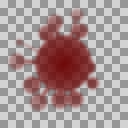
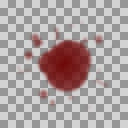
effects: irregular blood splatter; qa_spawn_effects hook for in-engine effect inspection

Changed region(s): [[0.0625, 0.0625, 0.7188, 0.875], [0.6562, 0.4688, 0.8438, 0.7188], [0.7188, 0.25, 0.8125, 0.3438]]

diff --git a/tools/artgen/effects.py b/tools/artgen/effects.py
@@ -110,18 +110,26 @@ def blood_image(seed=20261018):
     c = CENTER * scale
     # Central blob plus scattered satellite droplets, symmetric in expectation
     # (random angles cover the full circle -> no preferred roll direction).
-    main_r = SIZE * scale * 0.22
-    draw.ellipse((c - main_r, c - main_r, c + main_r, c + main_r), fill=255)
-    for i in range(14):
-        ang = (2 * math.pi * i) / 14 + rng.uniform(-0.2, 0.2)
-        dist = rng.uniform(main_r * 0.6, SIZE * scale * 0.42)
-        rad = rng.uniform(SIZE * scale * 0.02, SIZE * scale * 0.07)
+    # Irregular core: overlapping lumps of different sizes, not one circle.
+    main_r = SIZE * scale * 0.16
+    for _ in range(7):
+        ang = rng.uniform(0, 2 * math.pi)
+        off = rng.uniform(0, main_r * 0.7)
+        rr = main_r * rng.uniform(0.55, 1.05)
+        x0, y0 = c + off * math.cos(ang), c + off * math.sin(ang)
+        draw.ellipse((x0 - rr, y0 - rr * rng.uniform(0.7, 1.0), x0 + rr, y0 + rr), fill=255)
+    # Uneven spray: random angles (clumped, not evenly spaced), mostly tiny
+    # droplets, a few elongated streaks. Avoids a symmetric "germ" look.
+    for i in range(26):
+        ang = rng.uniform(0, 2 * math.pi)
+        dist = main_r * rng.uniform(0.9, 2.5)
+        rad = SIZE * scale * rng.choice((0.008, 0.012, 0.018, 0.03))
         cx = c + dist * math.cos(ang)
         cy = c + dist * math.sin(ang)
+        if rng.random() < 0.3:
+            ex, ey = c + dist * 0.75 * math.cos(ang), c + dist * 0.75 * math.sin(ang)
+            draw.line((ex, ey, cx, cy), fill=255, width=max(1, int(rad * 1.2)))
         draw.ellipse((cx - rad, cy - rad, cx + rad, cy + rad), fill=255)
-        # thin connecting streak toward the centre (splatter trail)
-        mx, my = c + (dist * 0.3) * math.cos(ang), c + (dist * 0.3) * math.sin(ang)
-        draw.line((mx, my, cx, cy), fill=255, width=max(1, int(rad * 0.5)))
     big = big.filter(ImageFilter.GaussianBlur(radius=scale * 1.5))
     mask = big.resize((SIZE, SIZE), Image.Resampling.LANCZOS)
     # Force alpha to 0 at the border regardless of blur bleed.

diff --git a/tests/browser/qa_hooks.cpp b/tests/browser/qa_hooks.cpp
@@ -7,6 +7,16 @@ extern ObjectManager ObjMgr;
 extern ResourceManager Resource;
 // Draw one actual engine-composed human, with live pose and game transforms.
 // A local visual-inspection helper only; normal builds never compile this file.
+// Spawn the engine's own blood + impact-smoke effects a few units in front of
+// the player so effect textures can be inspected without a firefight.
+extern "C" EMSCRIPTEN_KEEPALIVE int qa_spawn_effects(float x, float y, float z) {
+    // Same textures/alpha as SetHumanBlood (objectmanager.cpp:638), the map-hit
+    // impact puff (:1032) and the muzzle flash (:2118); long-lived and larger.
+    ObjMgr.AddEffect(x,y,z,0,0,0,0,0,0,4.0f,0,Resource.GetEffectBloodTexture(),10,0,1.0f,0,EFFECT_NORMAL,600);
+    ObjMgr.AddEffect(x,y-5,z,0,0,0,0,0,0,4.0f,0,Resource.GetEffectSmokeTexture(),10,0,0.625f,0,EFFECT_NORMAL,600);
+    ObjMgr.AddEffect(x,y+5,z,0,0,0,0,0,0,4.0f,0,Resource.GetEffectMflashTexture(),0,0,0.63f,0,EFFECT_NORMAL,600);
+    return 1;
+}
 extern "C" EMSCRIPTEN_KEEPALIVE void qa_resume_game() {
     emscripten_resume_main_loop();
 }
